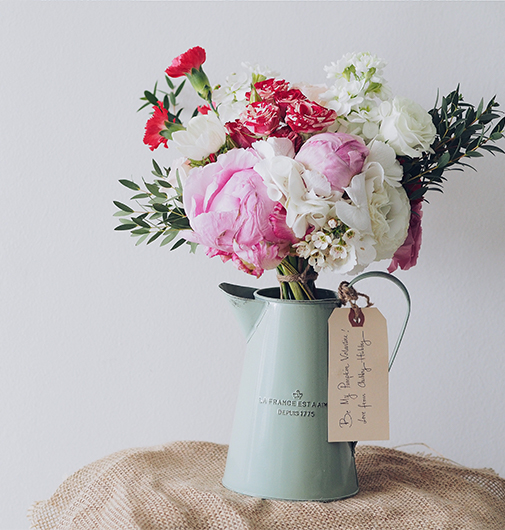
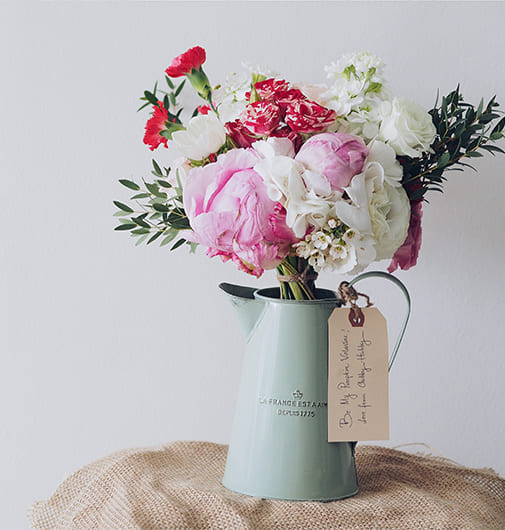
圖片CSS壓縮刪減

Changed region(s): [[0.9505, 0.2415, 0.9802, 0.2717], [0.5347, 0.2113, 0.5644, 0.2415], [0.5347, 0.1509, 0.5644, 0.1811]]

diff --git a/css/style.css b/css/style.css
@@ -30,53 +30,19 @@
     box-shadow: 0 1px 1px 1px #ddd;
     transition: opacity .5s ease-out;
 }
-
 .navbar-brand {
     font-weight: 700;
     font-size: 1.5rem;
 }
 
 /* --- carousel --- */
-.carousel-fade .carousel-inner .item,
-
-.carousel-fade .carousel-inner .active.left,
-
-.carousel-fade .carousel-inner .active.right {
-    opacity: 0;
-}
-
-.carousel-fade .carousel-inner .active,
-
-.carousel-fade .carousel-inner .next.left,
-
-.carousel-fade .carousel-inner .prev.right {
-    opacity: 1;
-}
-
-.carousel-fade .carousel-inner .next,
-
-.carousel-fade .carousel-inner .prev,
-
-.carousel-fade .carousel-inner .active.left,
-
-.carousel-fade .carousel-inner .active.right {
-    left: 0;
-    transform: translate3d(0, 0, 0);
-}
-
-.carousel-fade .carousel-control {
-    z-index: 2;
-}
-
 .carousel-caption h1 {
     font-size: 4rem;
 }
-
 .carousel-caption p {
     font-weight: 600;
     font-size: 1.3rem;
 }
-
 .carousel-inner img {
     width: 100%;
     height: 100%;
@@ -87,19 +53,16 @@
     background: rgb(253, 241, 236);
     padding-bottom: 2.5em;
 }
-
 .title-icon {
     width: 100px;
     height: 100px;
     background: rgb(253, 174, 137);
 }
-
 /* .btn-custom {
     color: rgb(253, 174, 137);
     font-weight: 500;
     border-bottom: 2px solid rgb(253, 174, 137);
 }
-
 .btn-custom:hover {
     color: rgb(253, 143, 92);
     border-bottom: 2px solid rgb(253, 143, 92);
@@ -111,17 +74,14 @@
     color: #fff;
     padding: 6em 0;
 }
-
 .counter-bg {
     display: block;
     width: 100%;
     background-color: rgba(255, 255, 255, 0.6);
 }
-
 .counter-num {
     color: rgba(0, 0, 0, 0.616);
 }
-
 .counter-num strong {
     font-size: 40px;
     font-weight: 700;
@@ -131,16 +91,13 @@
 .project {
     padding: 6em 0;
 }
-
 .project-img {
     position: relative;
 }
-
 .project-img .ccc {
     position: absolute;
     top: 40%;
 }
-
 .text h3 {
     font-size: 1.75rem;
     color: #fff;
@@ -161,7 +118,6 @@
     cursor: pointer;
     transition: 0.3s;
 }
-
 #myImg:hover,#myImg2:hover,#myImg3:hover {
     opacity: 0.7;
 }
@@ -238,7 +194,6 @@
     font-weight: bold;
     transition: 0.3s;
 }
-
 .close:hover,.close2:hover,.close3:hover,
 .close:focus,.close2:focus,.close3:focus {
     color: #bbb;
@@ -252,25 +207,22 @@
         width: 100%;
     }
 }
-
 /* end */
+
 .activity-entry .bg {
     display: block;
     position: relative;
     width: 266px;
     height: 275px;
 }
-
 .meta {
     display: block;
     width: 260px;
     font-size: 12px;
 }
-
 .meta>div {
     color: rgb(253, 174, 137);
 }
-
 .activity-entry .heading {
     color: #000;
     font-size: 20px;
@@ -282,16 +234,13 @@ footer {
     background: #000;
     color: #fff;
 }
-
 .list-unstyled .email {
     color: #fff;
 }
-
 .list-unstyled img {
     width: 40px;
     margin: 5px;
 }
-
 .list-unstyled img:hover {
     opacity: .9;
 }
@@ -303,27 +252,22 @@ footer {
         display: none;
     }
 }
-
 @media screen and (max-width: 768px) {
     .navbar-collapse .nav-item {
         text-align: center;
         padding: 0.5rem 0;
     }
-
     .navbar-collapse .nav-link {
         width: 100%;
     }
-
     .carousel-inner img {
         width: 100%;
         height: calc(55vh - 56px);
         object-fit: cover;
     }
-
     .carousel-caption h1 {
     font-size: 3rem;
     }
-    
     .carousel-indicators li {
         display: none;
     }

diff --git a/index.html b/index.html
@@ -1,6 +1,5 @@
 <!DOCTYPE html>
 <html lang="en">
-
 <head>
     <meta charset="UTF-8">
     <meta name="viewport" content="width=device-width, initial-scale=1.0">
@@ -9,11 +8,7 @@
     <link rel="stylesheet" href="bootstrap/css/bootstrap.min.css">
     <link href="aos-master/dist/aos.css" rel="stylesheet">
     <link href="css/style.css" rel="stylesheet">
-    <style>
-        
-    </style>
 </head>
-
 <body>
     <div id="goTop"><img src="images/up.svg"></div>
     <nav class="navbar navbar-expand-md navbar-light dropDowns">
@@ -390,18 +385,16 @@
         })
 
         //---navbar-fixed---
-        if ($(window).width() > 768) {
-            $(window).scroll(function () {
+        $(window).scroll(function () {
             var HH = $(window).scrollTop();
-            if (HH > 65) {                               //要滑動到選單的距離 
+            var WW = $(window).width();
+            if (HH > 65 && WW > 768) {                   //要滑動到選單的距離 
                 $('.dropDowns').addClass('navFixed');    // 幫選單加上固定效果
             } else {
                 $('.dropDowns').removeClass('navFixed'); //移除選單固定效果
             }
         });
-        }
         
-
         //---漢堡包自動收回---
         $(function () {
             if ($(window).width() < 768) { //當視窗小於768時才運作
